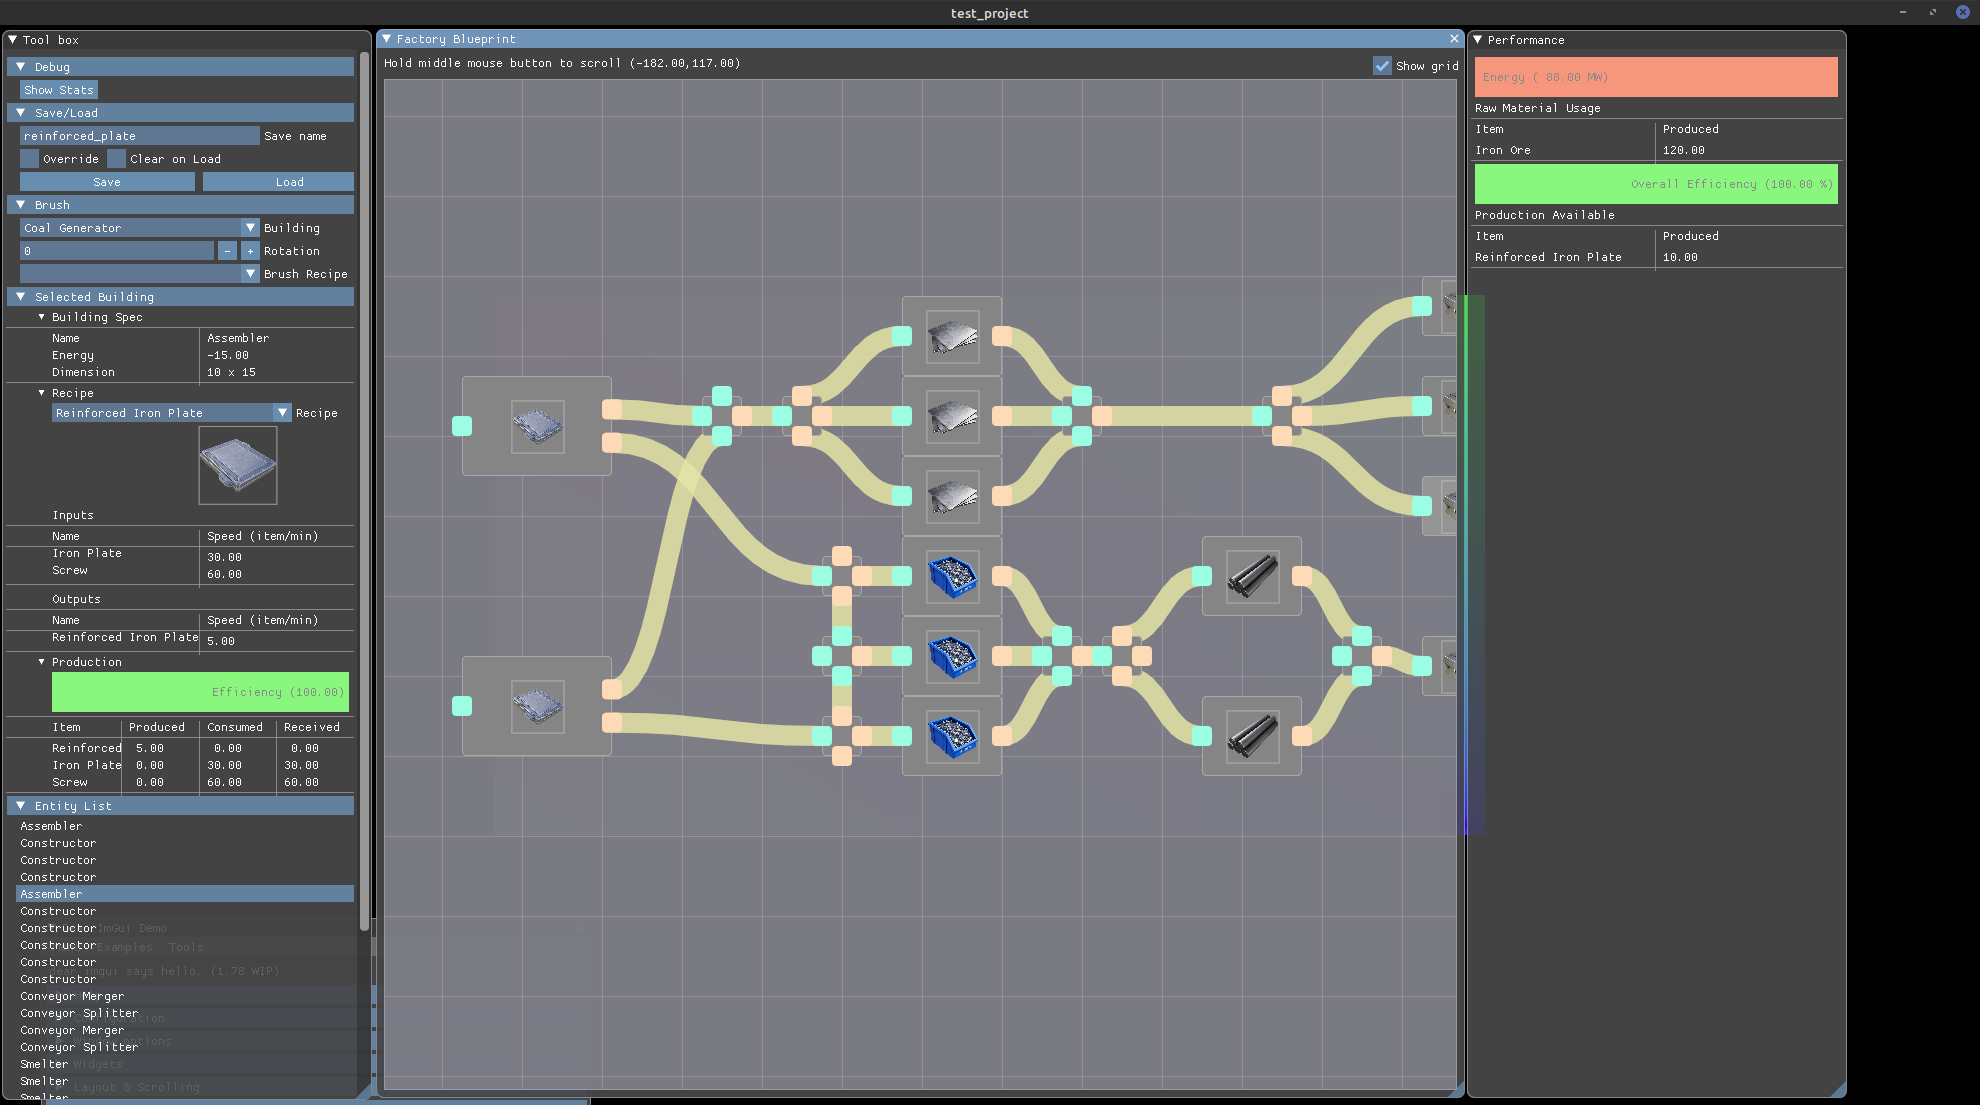
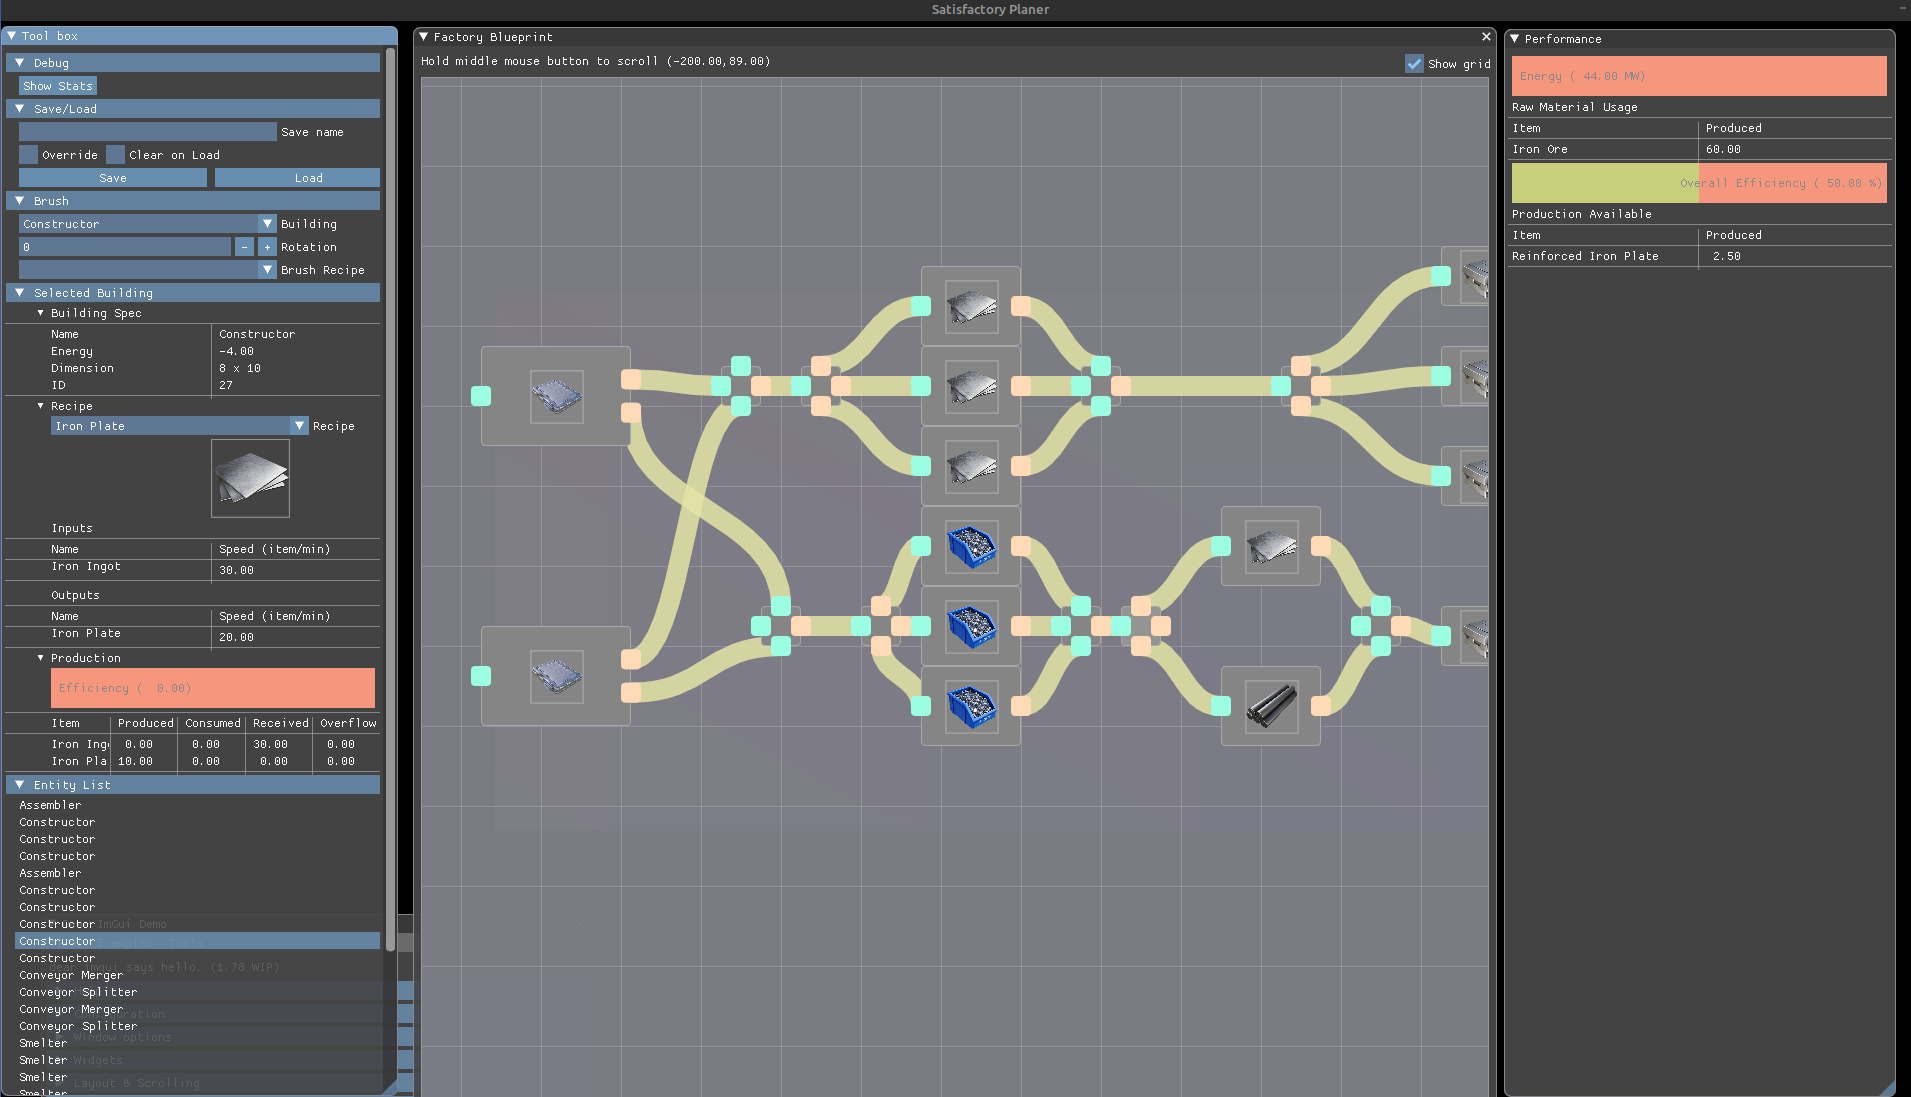
update preview

Changed region(s): [[0.0, 0.0, 1.0, 1.0]]

diff --git a/src/application/application.cpp b/src/application/application.cpp
@@ -450,7 +450,7 @@ bool Application::init_window() {
     }
 
     window = SDL_CreateWindow(
-        "test_project",
+        "Satisfactory Planer",
         0,
         0,
         int(WIDTH),

diff --git a/README.md b/README.md
@@ -1,5 +1,5 @@
-Statisafactory Planner
-======================
+Statisfactory Planer
+====================
 
 ![Preview](/preview/factory_planer.png)
 
